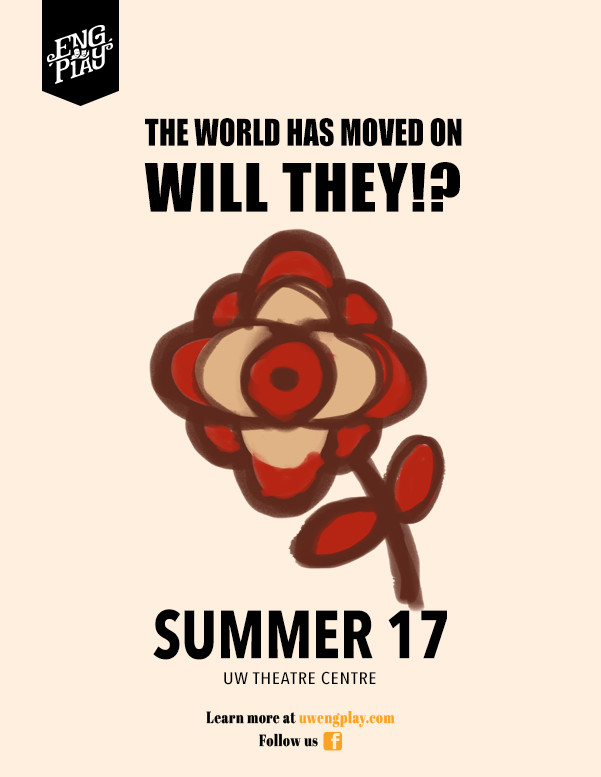
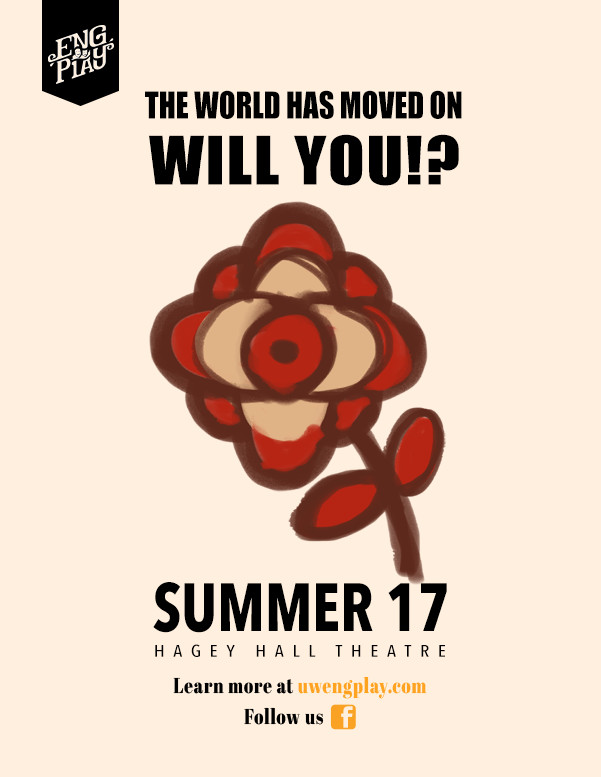
Changing to flower poster.

Changed region(s): [[0.2396, 0.0927, 0.7787, 0.9884], [0.0599, 0.0309, 0.1797, 0.1236]]

diff --git a/index.html b/index.html
@@ -63,7 +63,7 @@
 
 										<div class="row">
 											<div class="col-lg-4 col-ms-4 col-sm-4 col-xs-12">
-												<img src="assets/posters/engplay.png" alt="">
+												<img src="assets/posters/flower_web.jpg" alt="">
 											</div>
 											<div id="specs play" class="col-lg-8 col-ms-8 col-sm-8 col-xs-12">
 												<div class="row play">

diff --git a/events/play/index.html b/events/play/index.html
@@ -48,7 +48,7 @@
 				<div class="eventCard">
 					<div class="row">
 						<div class="col-lg-12 col-ms-12 col-sm-12 col-xs-5">
-							<img src="../../assets/posters/engplay.png" alt="">
+							<img src="../../assets/posters/flower_web.jpg" alt="">
 						</div>
 						<div id="specs" class="col-lg-12 col-ms-12 col-sm-12 col-xs-7">
 							<div class="row">
